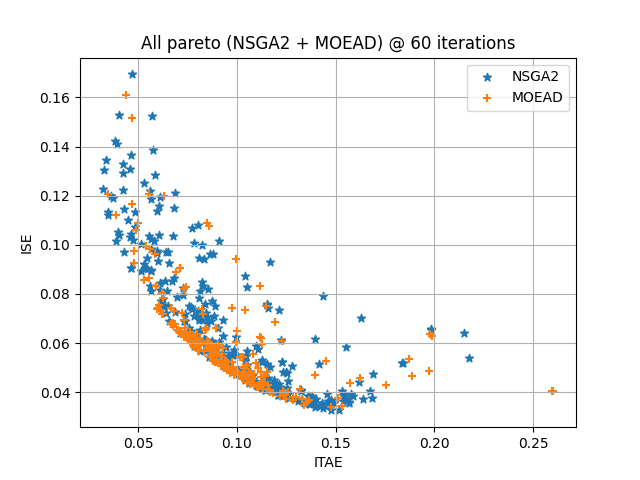
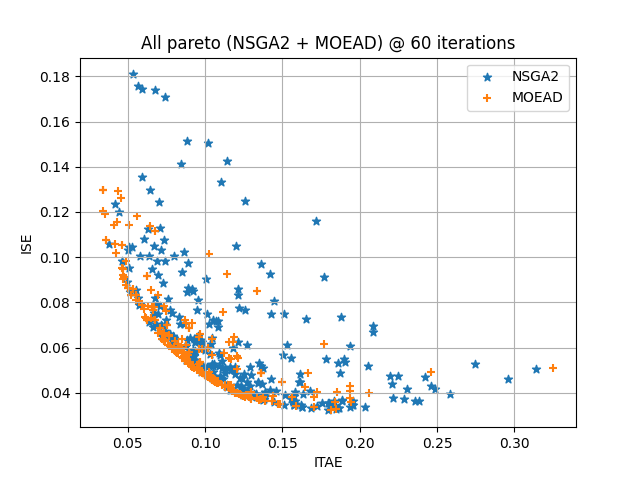
update pid

diff --git a/pid_opt_main.py b/pid_opt_main.py
@@ -54,7 +54,7 @@ def main():
     print("*******")
     
     # time 
-    t = np.linspace(0, 3, 1000)  # Time vector for simulation
+    t = np.linspace(0, 7, 1000)  # Time vector for simulation
     print(f"* Sim time: {t.max()}")
     print("*******")
     
@@ -183,8 +183,85 @@ def main():
 
     metrics = Metrics(history=history)
     metrics.print_metrics_table()
-    a=1
     
+    
+    print("******* FINISH Metrics ********")
+    print("******* Start Sampling Solutions ********")
+
+    solutions, total_pareto_sol, objectives, total_pareto_obj = history.get_total_pareto_front()
+    
+    # Create an index array to track the original indices of sorted objectives
+    indices = np.argsort(total_pareto_obj[:, 0])
+    
+    # Sort objectives and solutions based on the first objective
+    total_pareto_obj_sorted = total_pareto_obj[indices]
+    total_pareto_sol_sorted = total_pareto_sol[indices]
+    
+    
+    ### Typical 1
+    typicl_obj1 = total_pareto_obj_sorted[0].T
+    typicl_sol1 = total_pareto_sol_sorted[0].T
+    print("* Typical solution 1: ")
+    print(f"* obj1: {typicl_obj1[0]} | obj2: {typicl_obj1[1]}")
+    print(f"* kp: {typicl_sol1[0]} | ki: {typicl_sol1[1]} | kd: {typicl_sol1[2]}")
+    C_pid1 = PIDTransferFunction(kp=typicl_sol1[0],
+                                ki=typicl_sol1[1],
+                                kd=typicl_sol1[2])
+
+    t, _, error, step_info = response.close_loop_step_response(
+        sys = motor(),
+        C=C_pid1(),
+        v_desired=1,
+        start_from=0,
+        show=True,
+        save=True,
+        info=True,
+        c_coeff = [typicl_sol1[0],typicl_sol1[1],typicl_sol1[2]]
+    )
+
+    typicl_both_obj = total_pareto_obj_sorted[-1].T
+    typicl_both_sol = total_pareto_sol_sorted[-1].T
+    
+    C_pid_both = PIDTransferFunction(kp=typicl_both_sol[0],
+                                ki=typicl_both_sol[1],
+                                kd=typicl_both_sol[2])
+
+    t, _, error, step_info = response.close_loop_step_response(
+        sys = motor(),
+        C=C_pid_both(),
+        v_desired=1,
+        start_from=0,
+        show=True,
+        save=True,
+        info=True,
+        c_coeff = [typicl_both_sol[0],typicl_both_sol[1],typicl_both_sol[2]]
+    )
+    
+    
+    # Create an index array to track the original indices of sorted objectives
+    indices = np.argsort(total_pareto_obj[:, 1])
+    
+    # Sort objectives and solutions based on the second objective
+    total_pareto_obj_sorted = objectives[indices]
+    total_pareto_sol_sorted = solutions[indices]
+    
+    typical_obj2 = total_pareto_obj_sorted[0].T
+    typicl_sol2 = total_pareto_sol_sorted[0].T
+
+    C_pid2 = PIDTransferFunction(kp=typicl_sol2[0],
+                                ki=typicl_sol2[1],
+                                kd=typicl_sol2[2])
+
+    t, _, error, step_info = response.close_loop_step_response(
+        sys = motor(),
+        C=C_pid2(),
+        v_desired=1,
+        start_from=0,
+        show=True,
+        save=True,
+        info=True,
+        c_coeff = [typicl_sol2[0],typicl_sol2[1],typicl_sol2[2]]
+    )
 
 
 if __name__ == "__main__":

diff --git a/modules/motor_control.py b/modules/motor_control.py
@@ -114,7 +114,7 @@ class MotorResponse:
 
         return t, response, info
     
-    def close_loop_step_response(self, sys, C, v_desired, start_from=0, viz=False):
+    def close_loop_step_response(self, sys, C, v_desired, start_from=0, show=False, save=False, info=False, c_coeff=None):
         """Simulates and optionally visualizes the closed-loop step response of a system.
 
         Args:
@@ -137,31 +137,41 @@ class MotorResponse:
 
         # Simulate response
         t, response = ctrl.forced_response(system_closed_loop, T=self.t, U=step_input)
-        info = 1#ctrl.step_info(v_desired*system_closed_loop, T=self.t)
+
+        step_info = None
+        if info:
+            step_info = ctrl.step_info(v_desired*system_closed_loop, T=self.t)
 
         # Calculate error
         error = step_input - response
         
-        if viz:
+        if show:
             # Visualization
-            plt.figure(figsize=(12, 8))
-            plt.subplot(2, 1, 1)
-            plt.plot(t, step_input, 'r--', label=f'Desired Value ({v_desired})')
-            plt.plot(t, response, 'b-', label='System Response')
-            plt.title('Closed-loop Response and Error')
-            plt.ylabel('Response')
-            plt.legend(loc='best')
-            plt.grid(True)
+            fig = plt.figure(figsize=(12, 8))
+            if info:
+                fig.suptitle(f"Response with controller kp={np.round(c_coeff[0],2)},ki={np.round(c_coeff[1],2)},kd={np.round(c_coeff[2],2)},  \nRiseTime: {np.round(step_info['RiseTime'],4)}[sec] | OverShoot: {np.round(step_info['Overshoot'],3)}[%]")
+            
+            ax = fig.add_subplot(2,1,1)
+            ax.plot(t, step_input, 'r--', label=f'Desired Value ({v_desired})')
+            ax.plot(t, response, 'b-', label='System Response')
 
-            plt.subplot(2, 1, 2)
-            plt.plot(t, error, 'g-', label='Error')
-            plt.xlabel('Time (seconds)')
-            plt.ylabel('Error')
-            plt.legend(loc='best')
-            plt.grid(True)
+            ax.set_title('Closed-loop Response and Error')
+            ax.set_ylabel('Response')
+            ax.legend(loc='best')
+            ax.grid(True)
+
+            ax2 = fig.add_subplot(2,1,2)
+            ax2.plot(t, error, 'g-', label='Error')
+            ax2.set_xlabel('Time (seconds)')
+            ax2.set_ylabel('Error')
+            ax2.legend(loc='best')
+            ax2.grid(True)
             plt.show()
+        
+        if save:
+            fig.savefig(f"figures/response_kp{int(c_coeff[0])}_ki{int(c_coeff[1])}_kd{int(c_coeff[2])}")
 
-        return t, response, error, info
+        return t, response, error, step_info
     
 class Criterion:
     """Defines and computes performance criteria based on error and time vectors.

diff --git a/modules/algorithm.py b/modules/algorithm.py
@@ -304,7 +304,7 @@ class Metrics:
                             "Time": np.empty((0,1))}
 
         self.igd_indicator = IGD(pf=self.ref_pf)
-        self.hv_indicator = HV(ref_point=[0.04,0.05])
+        self.hv_indicator = HV(ref_point=[0.3,0.2])
         self.spread_indicator = self.SPREAD
         
     @staticmethod
